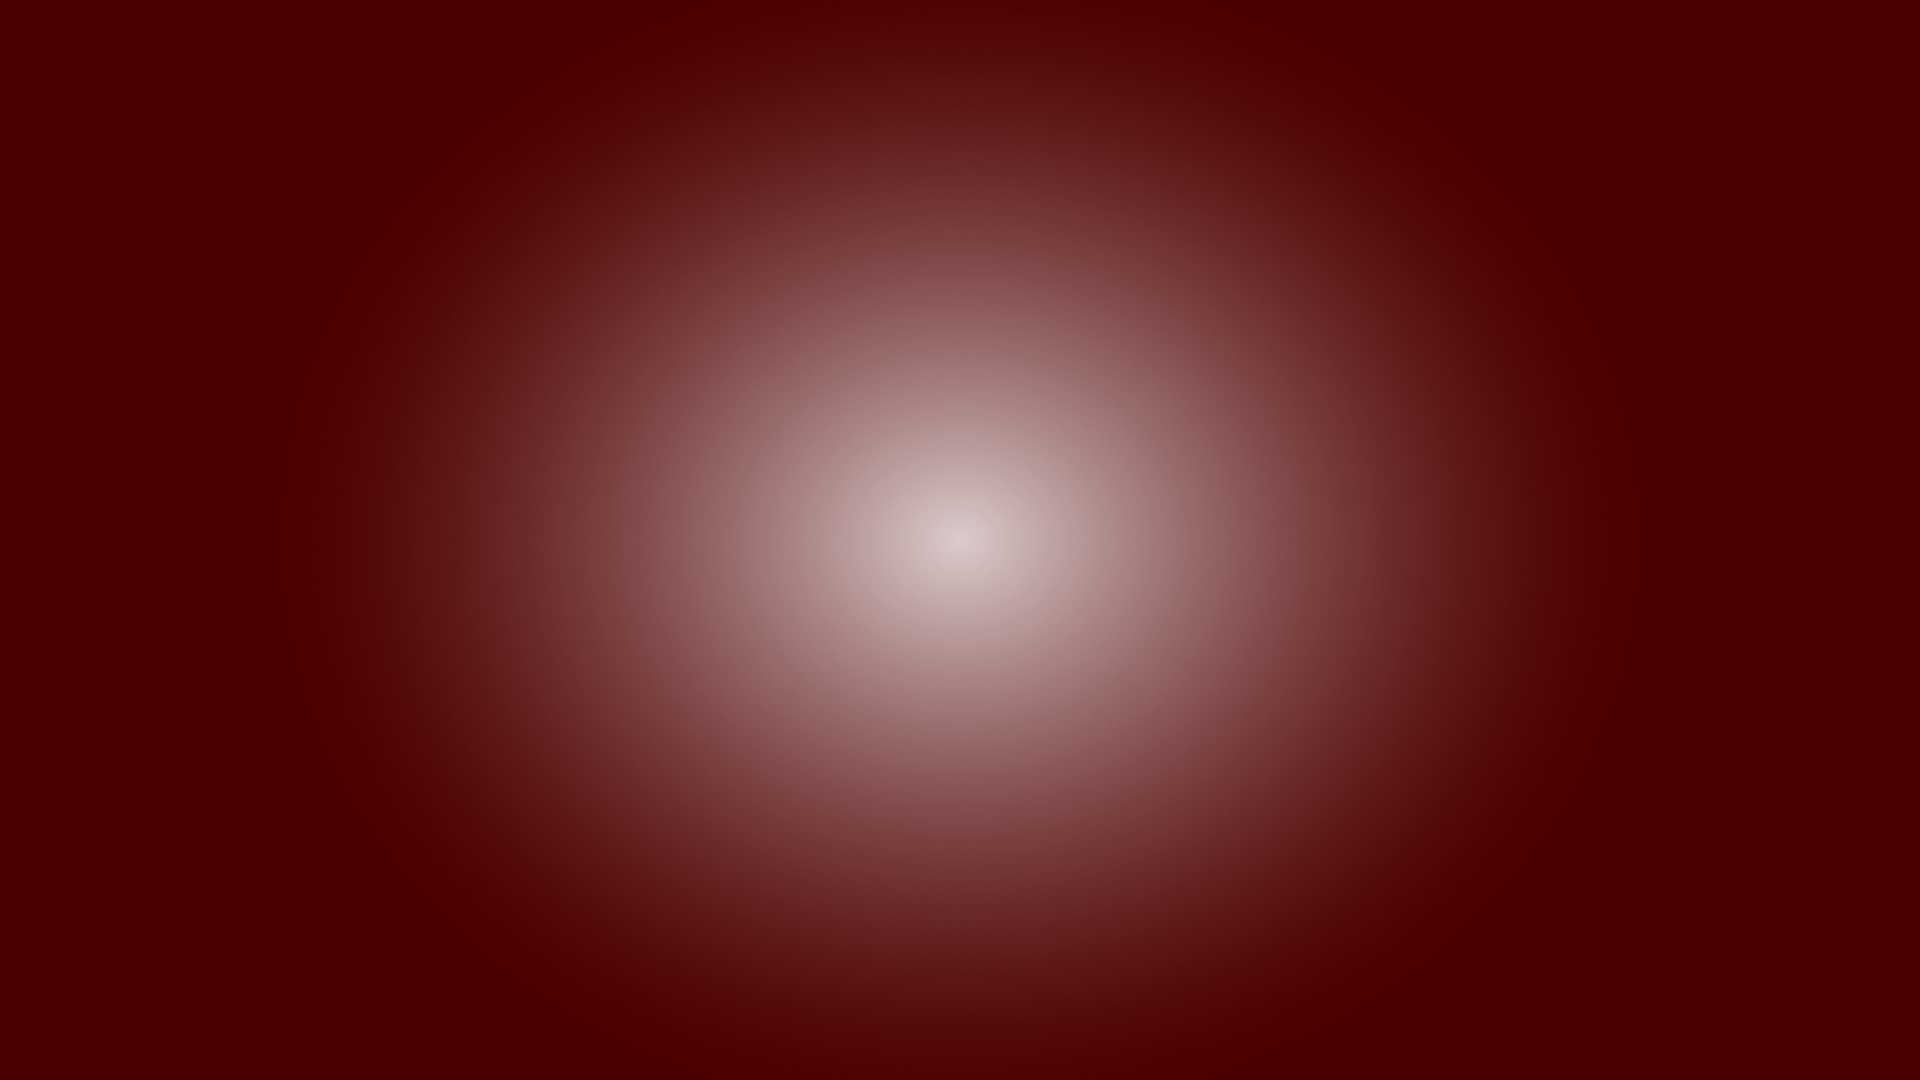
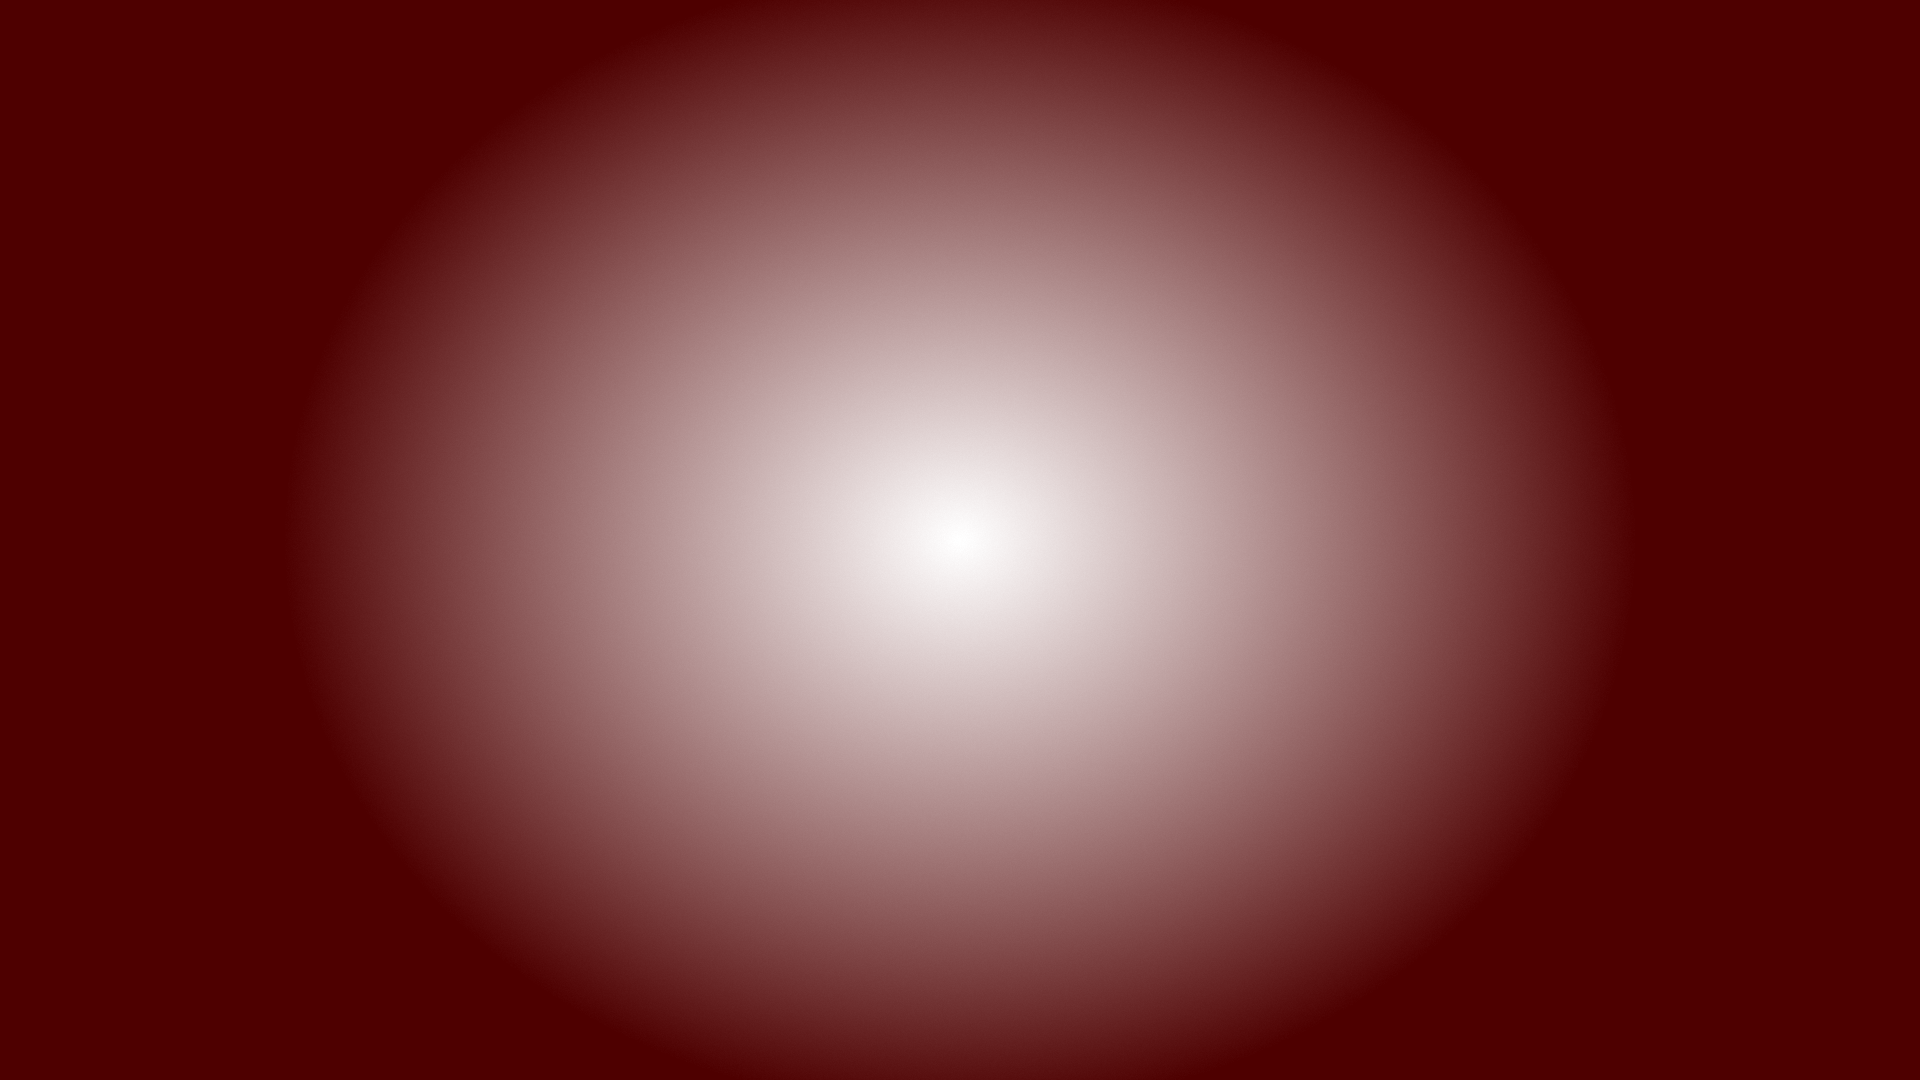
some more balance and tweaks

diff --git a/src/highrise/environment/DoorFrame.ts b/src/highrise/environment/DoorFrame.ts
@@ -2,6 +2,7 @@ import { Graphics } from "pixi.js";
 import BaseEntity from "../../core/entity/BaseEntity";
 import Entity from "../../core/entity/Entity";
 import { V2d } from "../../core/Vector";
+import { Layer } from "../config/layers";
 
 export class DoorFrame extends BaseEntity implements Entity {
   constructor(position: V2d, angle: number, length: number) {
@@ -21,5 +22,6 @@ export class DoorFrame extends BaseEntity implements Entity {
     frameSprite.rotation = angle;
 
     this.sprite = frameSprite;
+    this.sprite.layerName = Layer.WALLS;
   }
 }

diff --git a/src/highrise/levels/level-generation/entityPlacement.ts b/src/highrise/levels/level-generation/entityPlacement.ts
@@ -160,6 +160,7 @@ export function wallBuilderToEntity(wallBuilder: WallBuilder): Entity {
 }
 
 function addInnerWalls(cellGrid: CellGrid): Entity[] {
+  // TODO: Consolidate adjacent walls
   const wallEntities = [];
   for (let i = 0; i < LEVEL_SIZE; i++) {
     for (let j = 0; j < LEVEL_SIZE; j++) {

diff --git a/src/highrise/human/AllyController.ts b/src/highrise/human/AllyController.ts
@@ -14,7 +14,7 @@ import { Weapon } from "../weapons/weapons";
 import Human, { PUSH_RANGE } from "./Human";
 
 const FOLLOW_DISTANCE = 2; // meters
-const MAX_SHOOT_DISTANCE = 10; // meters
+const MAX_SHOOT_DISTANCE = 6; // meters
 
 const MIN_TRIGGER_COOLDOWN = 0.0;
 const MAX_TRIGGER_COOLDOWN = 0.4;

diff --git a/src/highrise/hud/DamagedOverlay.ts b/src/highrise/hud/DamagedOverlay.ts
@@ -24,7 +24,6 @@ export class DamagedOverlay extends BaseEntity implements Entity {
   onAdd() {
     this.baseline = Sprite.from(img_healthOverlay);
     this.baseline.alpha = 0;
-    this.baseline.blendMode = BLEND_MODES.ADD;
     this.sprite.addChild(this.baseline);
     this.resize();
   }
